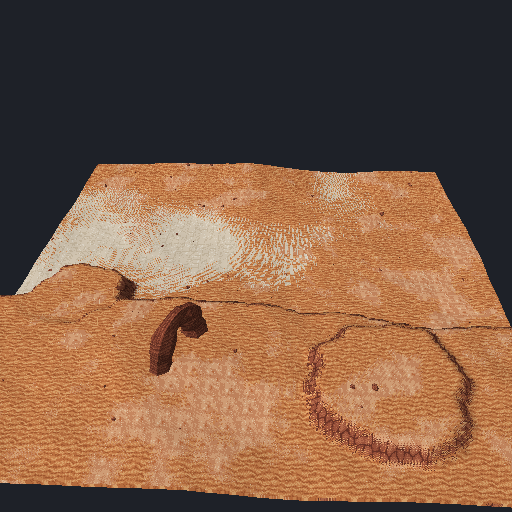
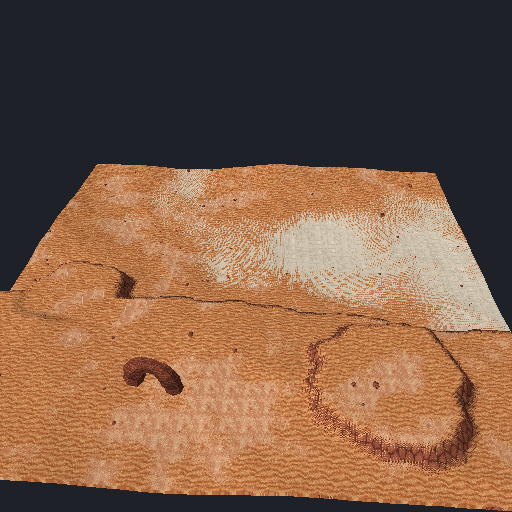
art_planet terrain: wide landing camera avoids arches and mesas; re-rendered demos

diff --git a/src/space/ops.js b/src/space/ops.js
@@ -489,8 +489,19 @@ export function lzCameras(heightAt, anchors = []) {
   return {
     overview: { pos: [25, Math.max(pad, heightAt(25, 420)) + 320, 420], look: [0, pad, -40], fov: 55 },
     eye: { pos: [ex, heightAt(ex, ez) + 1.7, ez], look: [tgt.p[0], heightAt(ex, ez) + 1.0, tgt.p[2]], fov: 70 },
-    wide: { pos: [0, Math.max(pad, heightAt(0, 230)) + 25, 230], look: [0, pad + 15, -600], fov: 75 },
+    wide: wideCam(),
   };
+  // wide: from the patch rim across the pad to the far ranges; pick the first rim point (starting at
+  // +Z south) with no arch / mesa within 90 m of the camera or of the first 150 m of the view line
+  function wideCam() {
+    const blockers = anchors.filter((a) => a.kind !== 'landing_pad');
+    for (let k = 0; k < 16; k++) {
+      const ang = Math.PI / 2 + (k * Math.PI) / 8, cx = Math.cos(ang) * 230, cz = Math.sin(ang) * 230;
+      const fx = -Math.cos(ang), fz = -Math.sin(ang);
+      const clear = blockers.every((b) => { for (let s = 0; s <= 150; s += 15) if (Math.hypot(b.p[0] - (cx + fx * s), b.p[2] - (cz + fz * s)) < 90) return false; return true; });
+      if (clear || k === 15) return { pos: [cx, Math.max(pad, heightAt(cx, cz)) + 25, cz], look: [-Math.cos(ang) * 600, pad + 15, -Math.sin(ang) * 600], fov: 75 };
+    }
+  }
 }
 const quatM = (q, s, p) => { const [x, y, z, w] = q; return [(1 - 2 * (y * y + z * z)) * s, 2 * (x * y - z * w) * s, 2 * (x * z + y * w) * s, p[0], 2 * (x * y + z * w) * s, (1 - 2 * (x * x + z * z)) * s, 2 * (y * z - x * w) * s, p[1], 2 * (x * z - y * w) * s, 2 * (y * z + x * w) * s, (1 - 2 * (x * x + y * y)) * s, p[2]]; };
 
